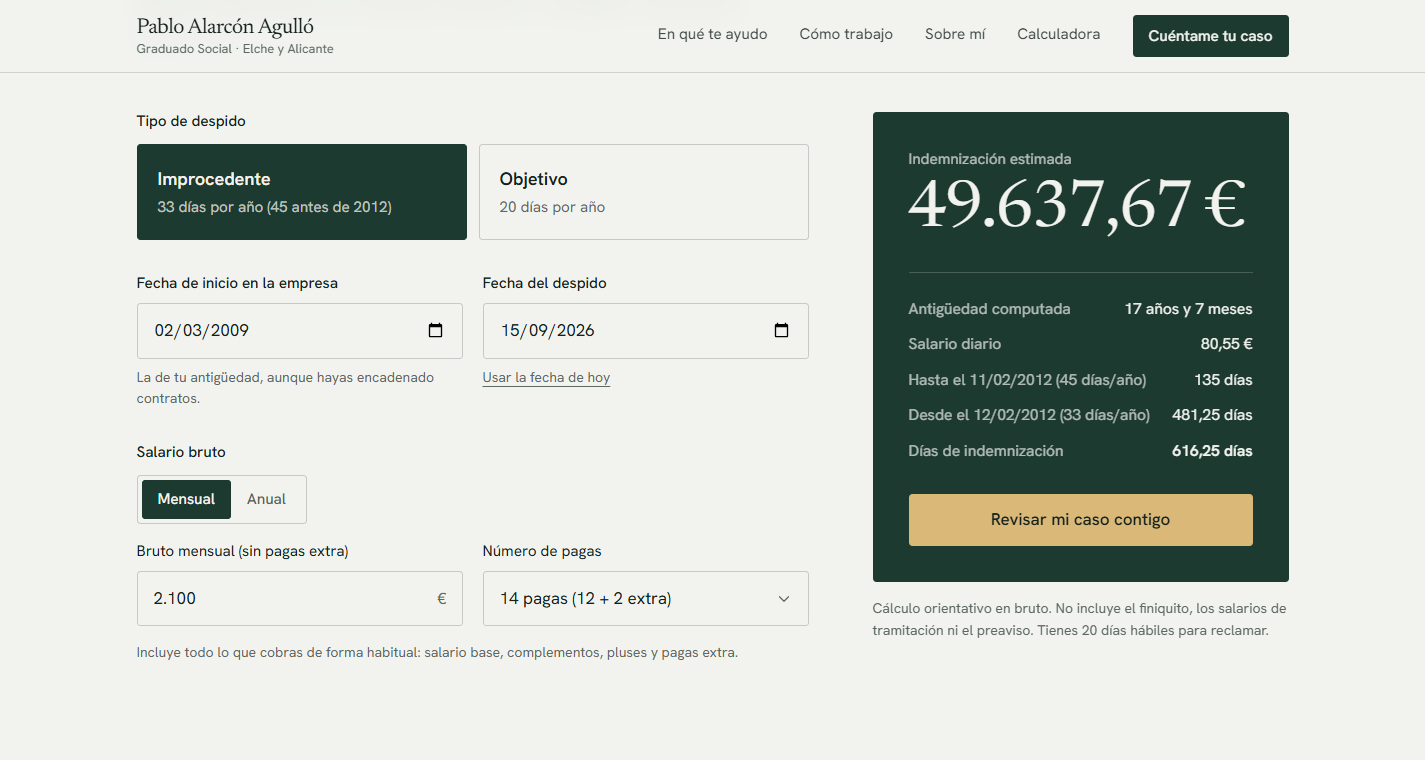
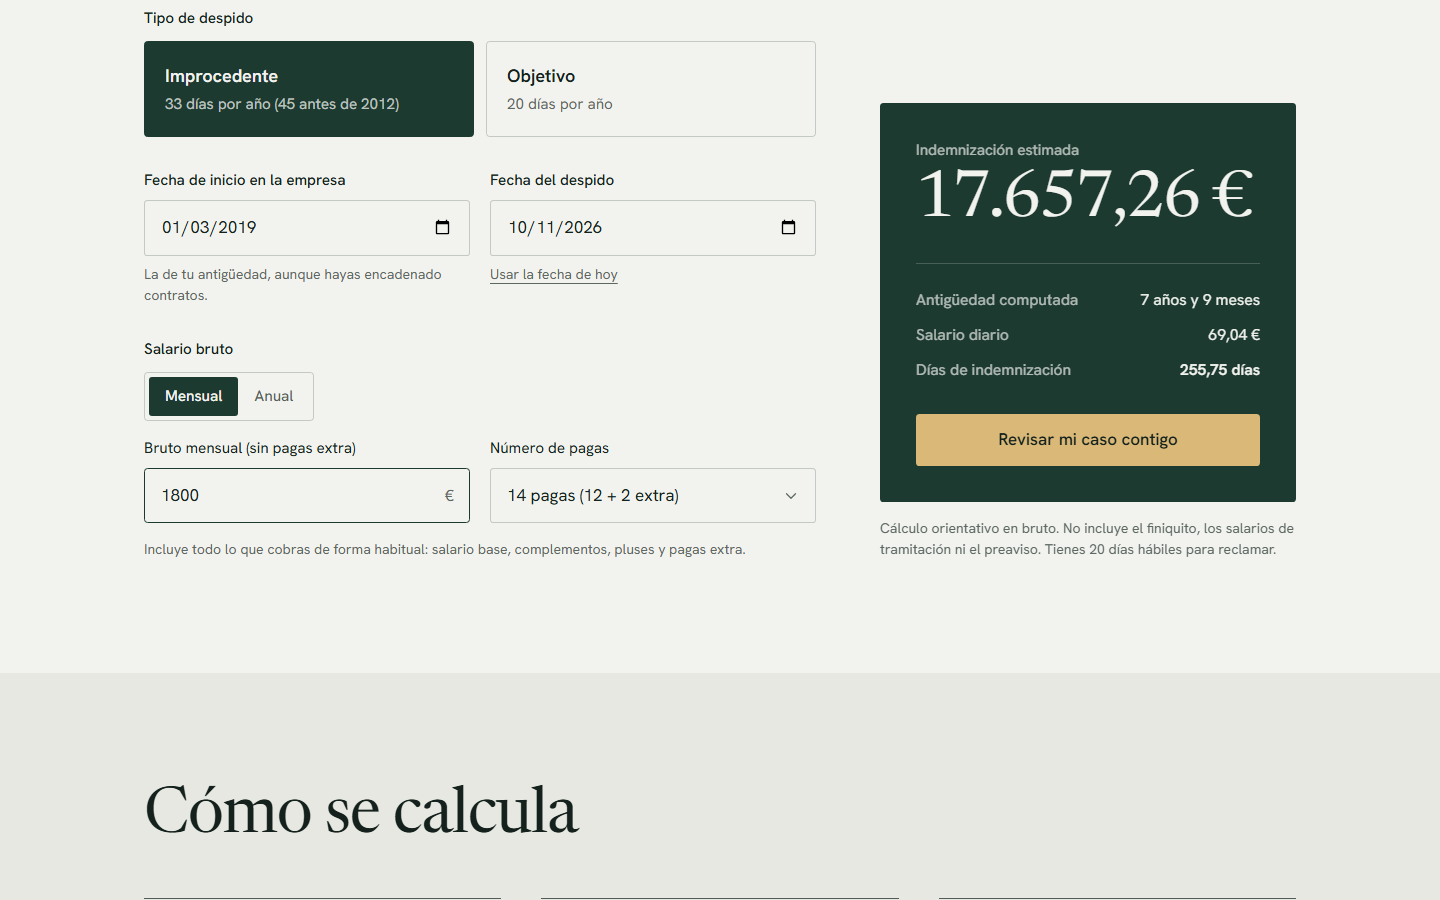
Capturas de proyectos nuevos y actualizados
Proyectos nuevos en el portfolio: JARVIS, Reacción inversa y Panel de
visitas de la web. Actualizados: Web profesional de Graduado Social (con
calculadora de finiquito, página para empresas y asistente de plazos) y
Caso Dodi (nuevo diseño de expediente, modos de juego y nombre).

Las capturas de JARVIS usan un usuario de demostración con base de datos
vacía en una carpeta temporal; el panel usa sus datos de demostración.

diff --git a/content/projects.ts b/content/projects.ts
@@ -4,6 +4,7 @@ import actasShot from "@/assets/projects/actas.png";
 import clasificadorShot from "@/assets/projects/clasificador.png";
 import elementosEsencialesShot from "@/assets/projects/elementos-esenciales.png";
 import graduadoSocialRedShot from "@/assets/projects/graduado-social-red.png";
+import jarvisShot from "@/assets/projects/jarvis.png";
 import jobpilotShot from "@/assets/projects/jobpilot.png";
 import jurisprudenciaShot from "@/assets/projects/jurisprudencia.png";
 import lexlaboralShot from "@/assets/projects/lexlaboral.png";
@@ -11,7 +12,9 @@ import localpdfShot from "@/assets/projects/localpdf.png";
 import miDiaShot from "@/assets/projects/mi-dia.png";
 import pabloAlarconShot from "@/assets/projects/pablo-alarcon.png";
 import pablokuShot from "@/assets/projects/pabloku.png";
+import panelVisitasShot from "@/assets/projects/panel-visitas.png";
 import pdfStudioShot from "@/assets/projects/pdf-studio.png";
+import reaccionInversaShot from "@/assets/projects/reaccion-inversa.png";
 
 /**
  * Proyectos del portfolio.
@@ -66,23 +69,25 @@ export const projects: Project[] = [
     slug: "pablo-alarcon",
     title: "Web profesional de Graduado Social",
     kinds: ["web"],
-    summary: "Mi web como Graduado Social en Elche y Alicante, con calculadora de indemnización por despido.",
+    summary: "Mi web como Graduado Social en Elche y Alicante, con calculadoras de despido y finiquito y un asistente de plazos.",
     problem:
       "Explicar a trabajadores y empresas, sin letra pequeña, en qué puedo ayudarles con contratos, nóminas, despidos o una inspección, y facilitar que cuenten su caso.",
     features: [
-      "Once páginas de servicio: despido, reclamación de cantidad, sanciones, Inspección de Trabajo…",
+      "Páginas de servicio: despido, reclamación de cantidad, sanciones, Inspección de Trabajo…",
       "Calculadora de indemnización por despido improcedente u objetivo",
+      "Calculadora de finiquito y una página específica para empresas",
+      "Asistente «¿Qué hago con mi caso?» que orienta sobre plazos y el siguiente paso",
       "Formulario de contacto con el asunto ya elegido desde cada servicio",
       "Preguntas frecuentes y datos estructurados para buscadores",
     ],
     stack: ["Next.js", "React", "TypeScript", "Tailwind CSS", "GSAP", "Lenis", "Motion", "Resend"],
     notes: [
-      { text: "La cifra se calcula en el navegador: no se envía ningún dato.", at: { x: 62.4, y: 26.6 } },
+      { text: "La cifra se calcula en el navegador: no se envía ningún dato.", at: { x: 75, y: 21 } },
       {
         text: "Tramo de 45 días antes del 12/02/2012 y topes de 720 y 1.260 días (art. 56 y DT 11.ª ET).",
-        at: { x: 62.4, y: 50 },
+        at: { x: 80, y: 41 },
       },
-      { text: "El botón abre el formulario con el asunto «Despido» ya elegido.", at: { x: 62.4, y: 68.3 } },
+      { text: "El botón abre el formulario con el asunto «Despido» ya elegido.", at: { x: 63.6, y: 49 } },
     ],
     image: {
       src: pabloAlarconShot,
@@ -180,26 +185,27 @@ export const projects: Project[] = [
   },
   {
     slug: "pabloku",
-    title: "¿Quién ha matado a Dodi?",
+    title: "Caso Dodi",
     kinds: ["juego", "web", "pwa"],
-    summary: "Juego web de deducción: colocas a cada sospechoso en el plano y descubres al culpable.",
+    summary: "Juego web de deducción con aspecto de expediente policial: colocas a cada sospechoso en el plano y descubres al culpable.",
     problem:
       "Un puzle de lógica para jugar en el navegador, también sin conexión, con un caso nuevo cada día y clasificación opcional.",
     features: [
       "Casos por épocas con distintos niveles de dificultad",
+      "Modos clásico, contrarreloj y práctica, y el especial «Un testigo miente»",
       "Pistas con coste en la puntuación y modo notas",
       "Caso del día con clasificación opcional",
       "Funciona sin conexión e instalable como aplicación",
     ],
     stack: ["React", "TypeScript", "Vite", "Zustand", "Tailwind CSS", "Supabase", "Vitest", "Playwright"],
     notes: [
-      { text: "Cada pista resta puntuación: el jugador decide cuándo pedirla.", at: { x: 89.5, y: 20.5 } },
+      { text: "Cada pista resta puntuación: el jugador decide cuándo pedirla.", at: { x: 89.5, y: 25 } },
       { text: "El tablero lo valida un motor de reglas propio, con pruebas unitarias.", at: { x: 54, y: 43 } },
       { text: "La clasificación del caso del día se valida en el servidor." },
     ],
     image: {
       src: pablokuShot,
-      alt: "Partida de «¿Quién ha matado a Dodi?»: fichas de sospechosos a la izquierda, plano de la escena en cuadrícula en el centro y controles de pistas a la derecha.",
+      alt: "Partida de Caso Dodi: fichas de sospechosos a la izquierda, plano de la escena en el centro, con sus casillas y objetos, y a la derecha los controles de pistas, notas y validación.",
     },
     links: [{ label: "Jugar", href: "https://quien-ha-matado-a-dodi.vercel.app" }],
     credit: "Basado en Murdoku, el puzle de asesinatos creado por Manuel Garand.",
@@ -373,6 +379,85 @@ export const projects: Project[] = [
       { text: "Analítica solo tras el consentimiento; sin él no se carga." },
       { text: "Transiciones entre páginas con View Transitions de React." },
     ],
+    links: [],
+    visible: true,
+  },
+  {
+    slug: "jarvis",
+    title: "JARVIS",
+    kinds: ["pwa", "local"],
+    summary: "Asistente personal que corre en mi ordenador y se usa desde el móvil como app instalable.",
+    problem:
+      "Tener en un solo sitio la agenda, las finanzas, los documentos y el correo, con un asistente que trabaja en local: un modelo instalado en el propio ordenador, y la nube solo si la activo.",
+    features: [
+      "Chat por voz y por texto con un modelo local (Ollama)",
+      "Memoria revisable: lo que deduce del chat queda «sin confirmar» hasta que lo aprueba",
+      "Agenda, tareas, viajes y lista de la compra",
+      "Finanzas con importación de extractos en CSV o Excel y vista previa antes de guardar",
+      "Documentos con OCR local y búsqueda dentro del texto",
+      "Correo y Telegram: enviar siempre lo confirma el usuario",
+      "Copias de seguridad nocturnas que se comprueban",
+    ],
+    stack: ["Python", "FastAPI", "SQLite", "React", "TypeScript", "Vite", "Ollama", "Tailscale"],
+    notes: [
+      { text: "Pulsa el núcleo para hablar o escribe: Jarvis responde hablando y vuelve a escuchar.", at: { x: 45.5, y: 31 } },
+      { text: "Estado del servidor y de la base de datos, siempre a la vista.", at: { x: 80.5, y: 42 } },
+      { text: "Cada cuenta se crea desde la consola: no hay registro público." },
+    ],
+    image: {
+      src: jarvisShot,
+      alt: "Inicio de JARVIS en modo oscuro con un usuario de demostración: saludo, núcleo de voz para hablar con el asistente, campo para escribir, accesos a agenda y finanzas y el estado del servidor.",
+    },
+    links: [],
+    visible: true,
+  },
+  {
+    slug: "reaccion-inversa",
+    title: "Reacción inversa",
+    kinds: ["web"],
+    summary: "Puzle diario para el navegador: adivina qué bola se lanzó para provocar la reacción en cadena.",
+    problem:
+      "Un puzle de lógica con un reto nuevo cada día, en tres intentos, y un generador que comprueba que solo un lanzamiento produce el tablero final.",
+    features: [
+      "Reto diario con racha y opción de compartir el resultado",
+      "Modo práctica para seguir jugando fuera del reto",
+      "Bolas que chocan, muros, flechas, hoyos y bombas que explotan en cadena",
+    ],
+    stack: ["JavaScript", "HTML", "CSS", "Node.js (node:test)"],
+    notes: [
+      { text: "Sin dependencias: HTML, CSS y módulos de JavaScript." },
+      { text: "La semilla de cada puzle es la fecha del reto, así todos juegan el mismo tablero." },
+      { text: "Las pruebas del motor comprueban las reglas y que cada puzle tenga solución única." },
+    ],
+    image: {
+      src: reaccionInversaShot,
+      alt: "Reto del día de Reacción inversa: arriba, cómo acabó el tablero con las bolas y los huecos; abajo, el tablero inicial, donde hay que tocar la bola que se movió.",
+    },
+    links: [],
+    visible: true,
+  },
+  {
+    slug: "panel-visitas",
+    title: "Panel de visitas de la web",
+    kinds: ["local"],
+    summary: "Panel personal que cruza Google Search Console y Analytics para ver cómo llegan visitas a la web y qué publicar después.",
+    problem:
+      "Saber cada día si la web aparece en Google, qué páginas conviene publicar o mejorar y si una caída coincide con una tanda de publicaciones, sin entrar en varios paneles distintos.",
+    features: [
+      "Evolución diaria de las veces que la web aparece en Google",
+      "Páginas del sitemap publicadas cada día frente a las caídas",
+      "Lista «Qué hacer ahora»: publicar, mejorar o revisar, por rentabilidad",
+      "Origen de las visitas y aviso de caída",
+    ],
+    stack: ["Node.js", "Google Search Console", "Google Analytics", "HTML"],
+    notes: [
+      { text: "Genera una página HTML que se abre en el navegador, sin servidor propio." },
+      { text: "Las cifras reales se leen con una cuenta de servicio de Google; la captura usa datos de ejemplo." },
+    ],
+    image: {
+      src: panelVisitasShot,
+      alt: "Panel de visitas con datos de ejemplo: titular con los clics desde Google, tres cifras clave, un aviso de datos de ejemplo y la gráfica diaria de apariciones en Google con las publicaciones del sitemap debajo.",
+    },
     links: [],
     visible: true,
   },

diff --git a/README.md b/README.md
@@ -49,7 +49,9 @@ discontinuo, para que no se publique sin querer.
 - No hay fechas, clientes, testimonios ni cifras de uso: no constan en ningún sitio. Añádelos solo si son reales.
 - Todos los proyectos tienen captura salvo la web de la asesoría. Las de LEXLABORAL, LocalPDF, JobPilot, Clasificador, Actas,
   Mi Día y Elementos esenciales se tomaron el 28-10-2026 arrancando cada app en local; las que necesitan datos llevan
-  datos de ejemplo ficticios (en el clasificador, sobre una copia aislada, sin la base de datos real). Para destacar otro a página completa,
+  datos de ejemplo ficticios (en el clasificador, sobre una copia aislada, sin la base de datos real). La web profesional y Caso Dodi
+  se recapturaron el 12-11-2026 con su versión actual; JARVIS (con un usuario de demostración y una base de datos vacía en una
+  carpeta temporal), Reacción inversa y el Panel de visitas (con sus datos de demostración) también son de esa fecha. Para destacar otro a página completa,
   añade su captura en `src/assets/projects/`, impórtala en `content/projects.ts`, pon `featured: true` y, si quieres,
   notas con `at: { x, y }` (porcentaje sobre la imagen).
 
